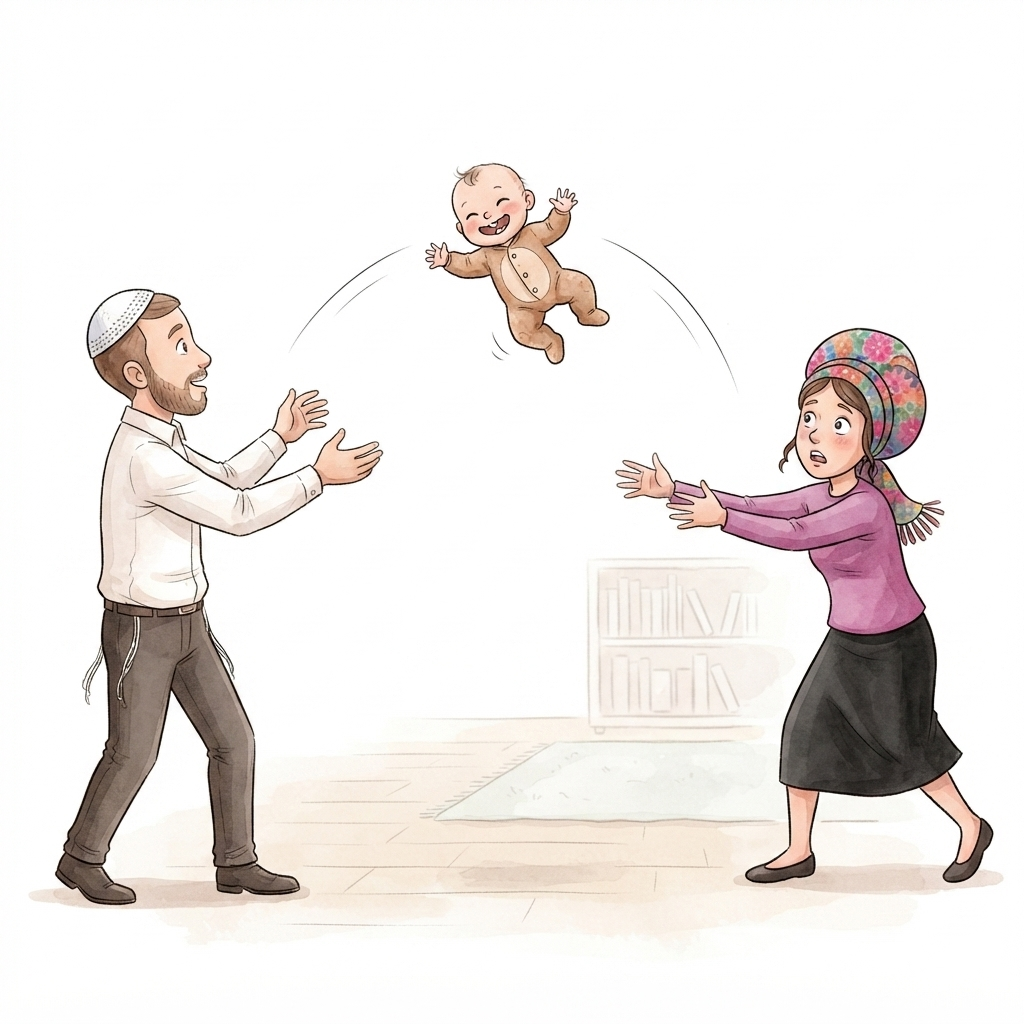
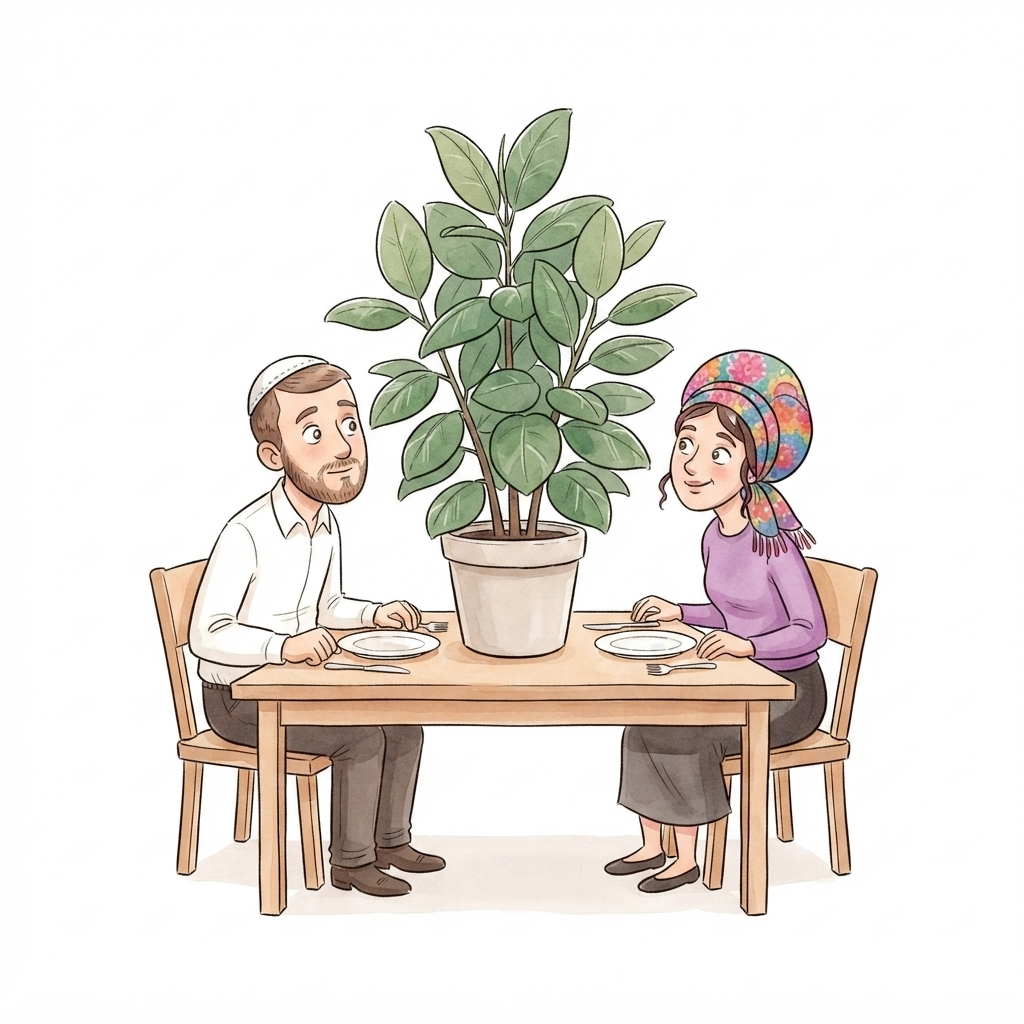
Replace harchakot thumbnail; add gottman hub thumbnail
home-harchakot.jpeg was an unrelated couple-tossing-a-baby image,
replaced with a couple separated by a plant at the table (fits the
distancing-laws topic). The gottman card on the tikshoret hub had
only an emoji placeholder; now uses the couple-on-stairs illustration.

diff --git a/pages/tikshoret.html b/pages/tikshoret.html
@@ -158,7 +158,7 @@
     </a>
 
     <a class="topic-card" href="gottman.html">
-      <div class="thumb" style="display:flex;align-items:center;justify-content:center;font-size:36px;">🏡</div>
+      <img class="thumb" src="../media/images/home-gottman.jpeg" alt="שבעת העקרונות">
       <div class="info">
         <div class="label">שבעת העקרונות</div>
         <div class="desc">משחק זוגי בהשראת ג'ון גוטמן</div>
